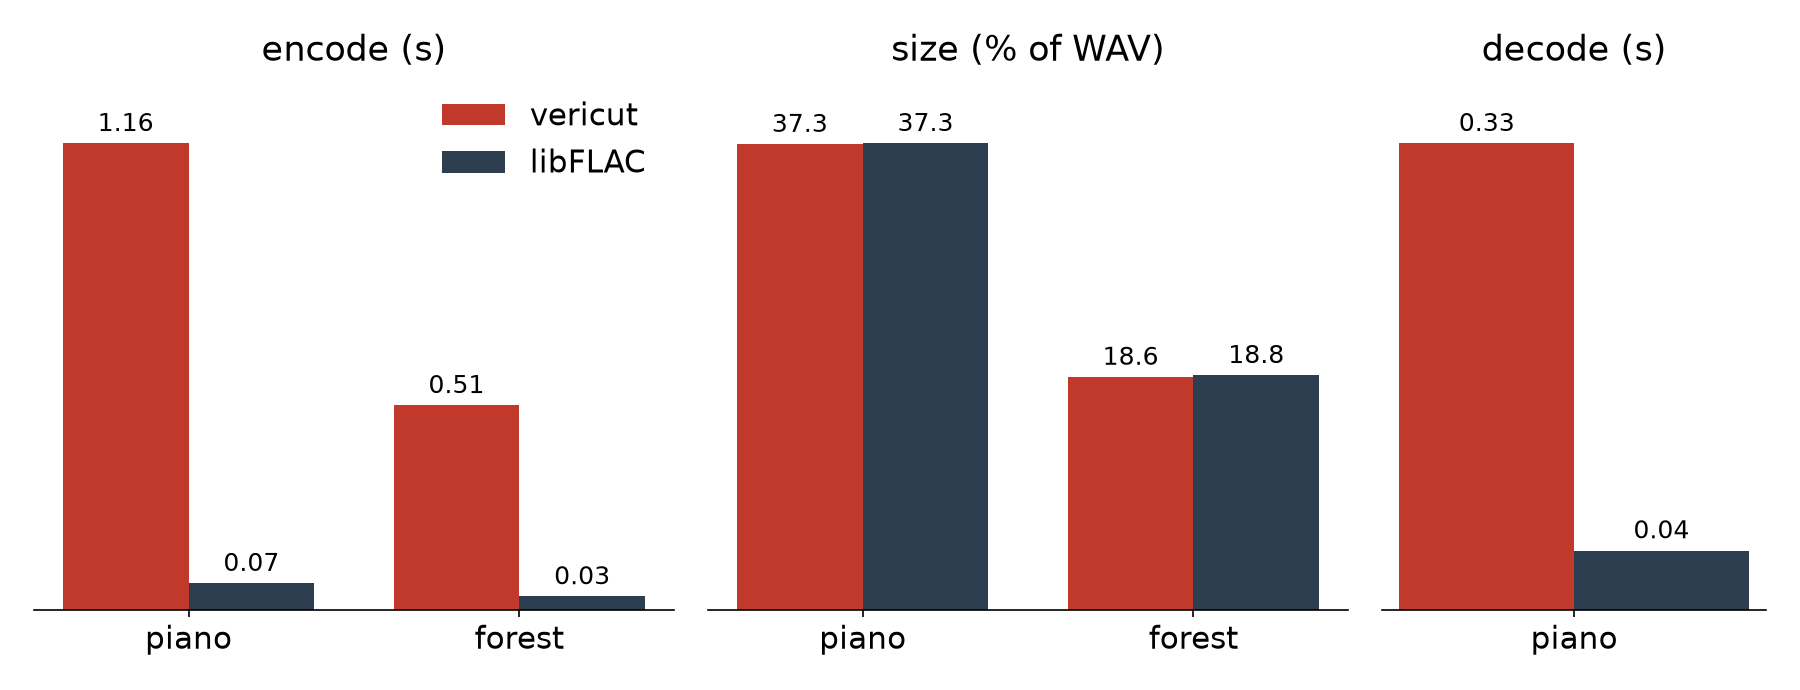
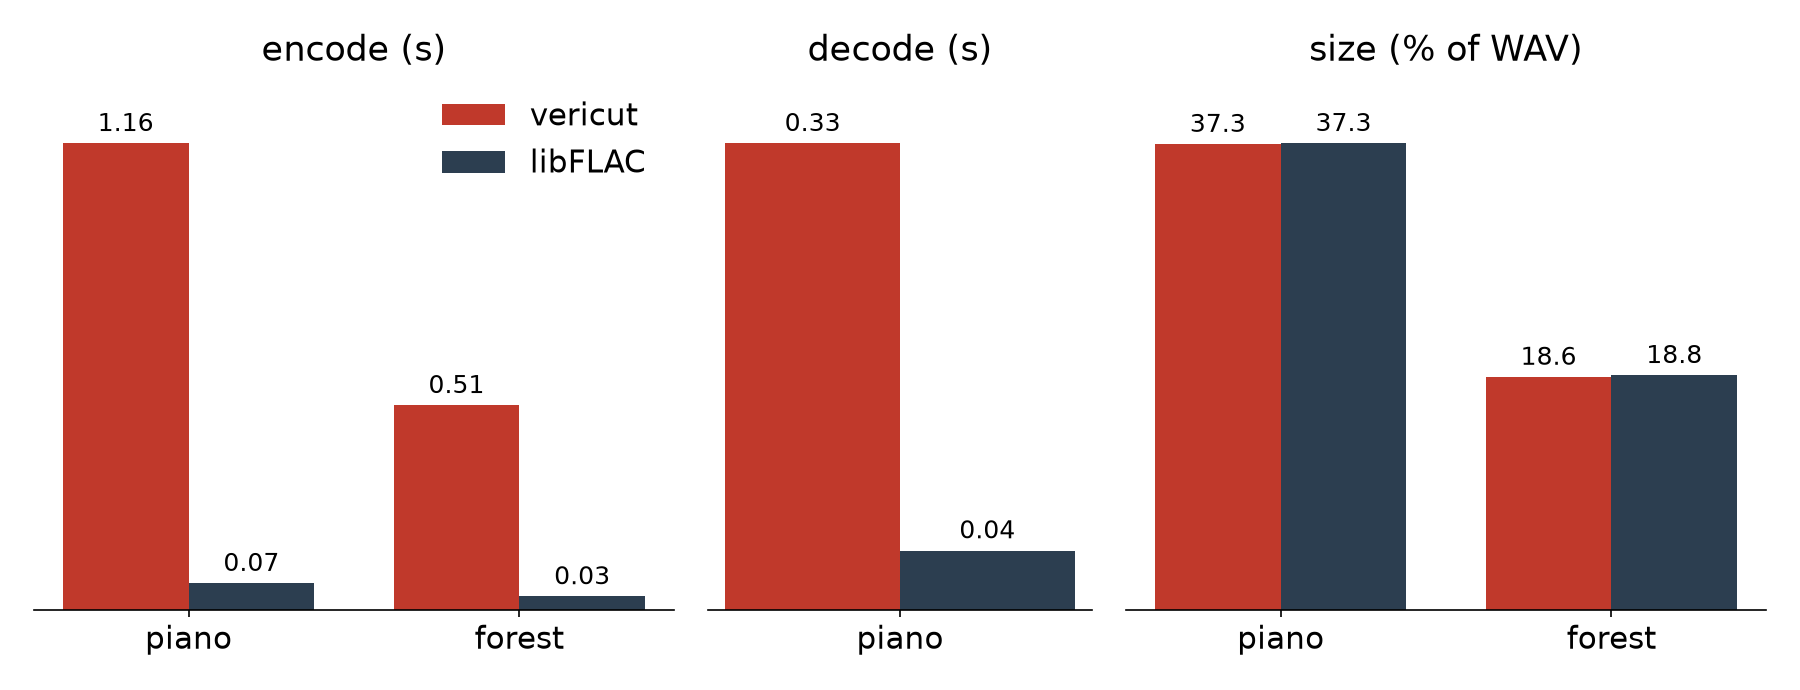
bench: vs-libFLAC chart order encode, decode, size

diff --git a/bench/plot_vs_libflac.py b/bench/plot_vs_libflac.py
@@ -17,11 +17,11 @@ plt.rcParams.update({"font.size": 15, "axes.titlesize": 17,
 # (title, clips, vericut, libFLAC, value format)
 panels = [
     ("encode (s)", ["piano", "forest"], [1.160, 0.509], [0.067, 0.034], "{:.2f}"),
-    ("size (% of WAV)", ["piano", "forest"], [37.26, 18.64], [37.33, 18.78], "{:.1f}"),
     ("decode (s)", ["piano"], [0.329], [0.042], "{:.2f}"),
+    ("size (% of WAV)", ["piano", "forest"], [37.26, 18.64], [37.33, 18.78], "{:.1f}"),
 ]
 
-fig, axes = plt.subplots(1, 3, figsize=(12, 4.6), gridspec_kw={"width_ratios": [2, 2, 1.2]})
+fig, axes = plt.subplots(1, 3, figsize=(12, 4.6), gridspec_kw={"width_ratios": [2, 1.2, 2]})
 w = 0.38
 for ax, (title, clips, vc, lf, fmt) in zip(axes, panels):
     xs = range(len(clips))
